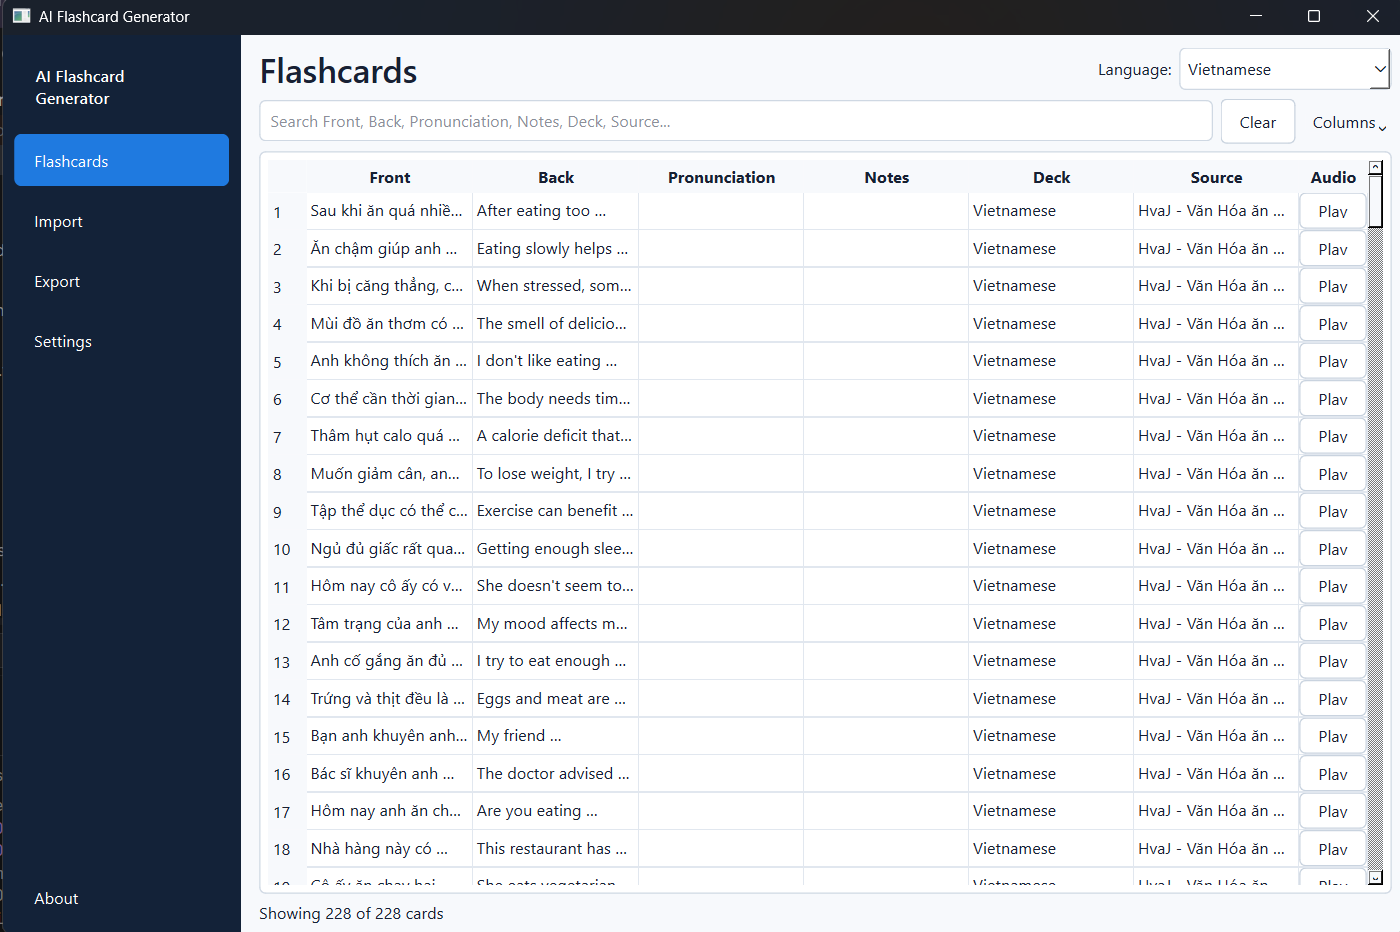
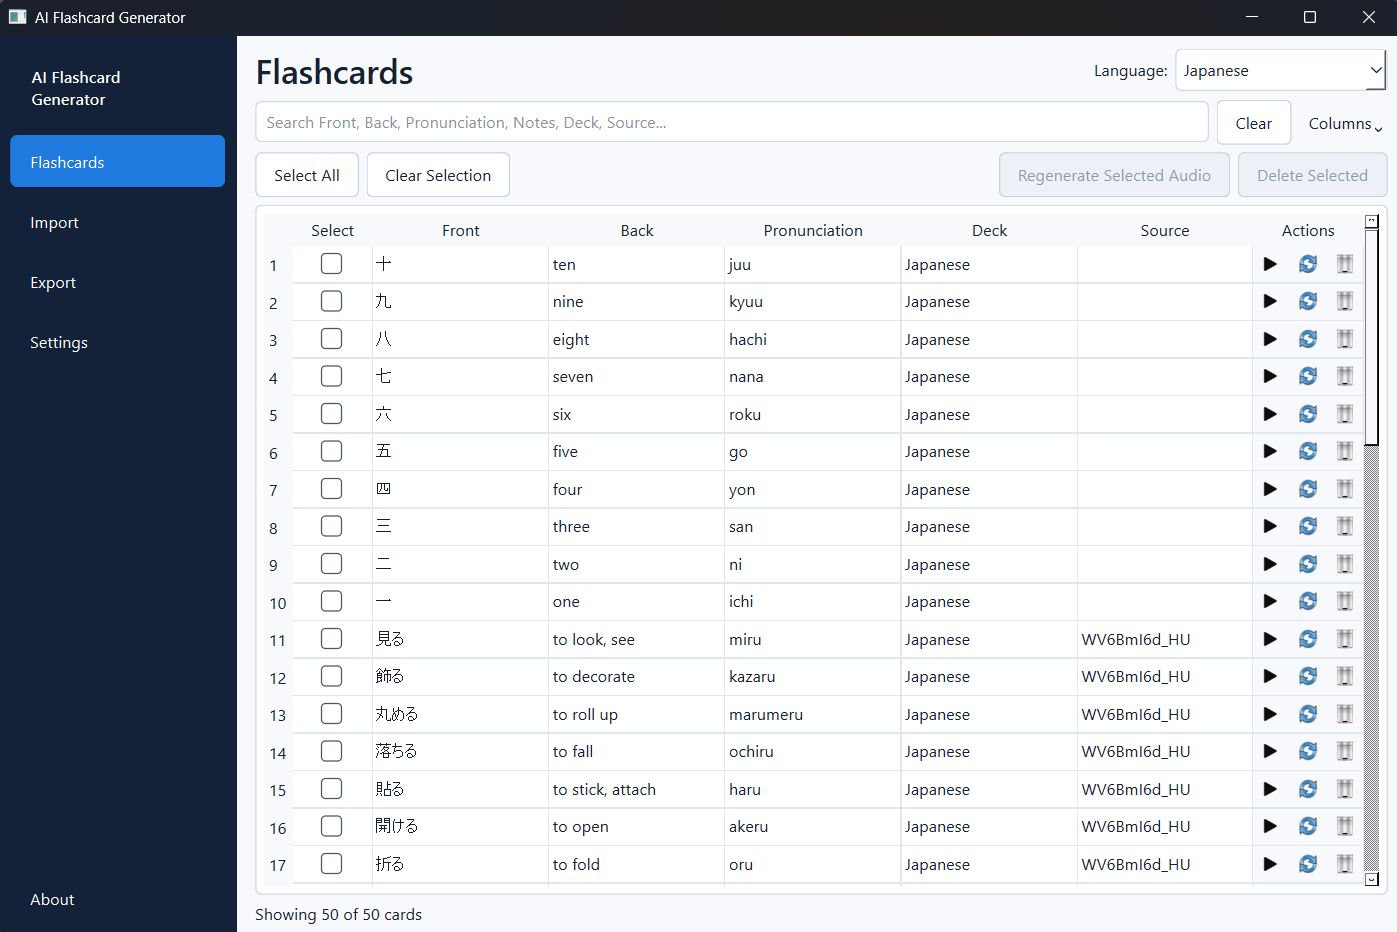
Updated readme

diff --git a/README.md b/README.md
@@ -24,7 +24,15 @@ Select the language for which you want to generate flashcards in the top right c
 ## Flashcards
 ![Flashcards screen](assets/screenshots_README/Flashcards.png)
 
-Here you can see your flashcards. You can search and play the sound. For now there is no other functionality here yet.
+Here you can browse and search in your flashcards. 
+- You can play the audio of the flash card with the play button.
+- You can regenerate audio for a card with the second (regenerate) button.
+- You can delete a card with the last button.
+- For regenerate and delete you can select multiple cards and regenerate/delete for all at once using the buttons on the top.
+
+Notes:
+- When you delete a card, the card and audio will be removed from this program. It will no longer be in the export to Anki. However, existing cards in Anki will not be removed when we export our decks and must be removed manually in Anki. This is an Anki feature to prevent data loss.
+- You can select content of a column using ctrl+c but the text does not highlight when you double click it.
 
 ---
 
@@ -199,8 +207,6 @@ pip install -r requirements-dev.txt
 Future improvements include:
 
 - Open bug: Audio fails when output device changes
-- Support for Anki dark mode.
-- Regenerate Audio (implemented but not added to UI) and other deck management features
 - Support for creating flashcards from youtube link
 - Support for creating flashcards from documents.
 - Add export to Quizzlet